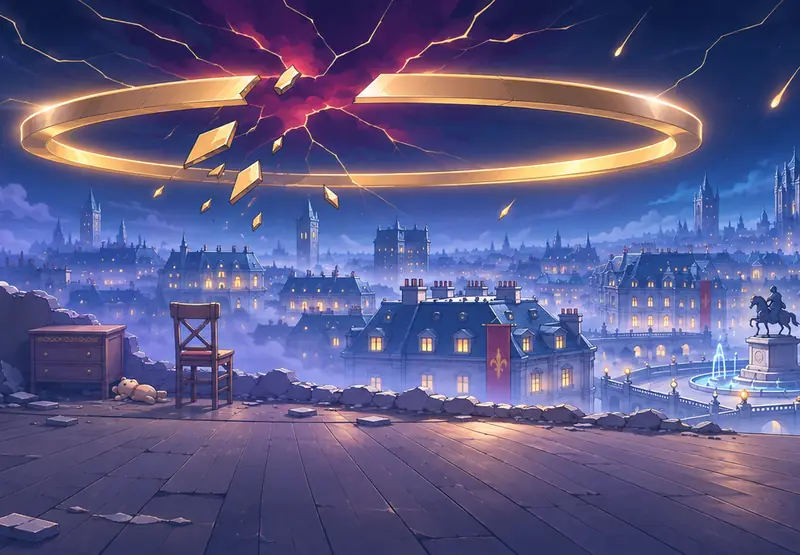
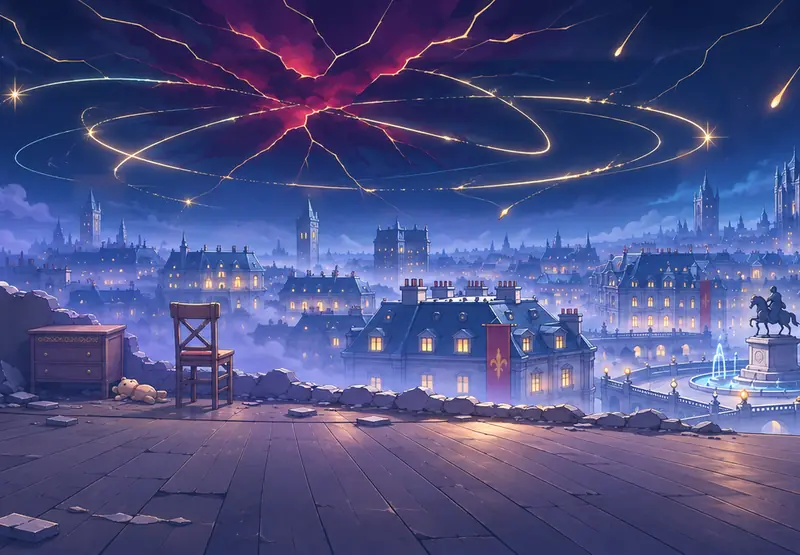
fix(art): 강제 탐색 하늘 — 고리를 빛의 궤적 형태로(초기 그림 결), 깨지는 중

Changed region(s): [[0.0, 0.0919, 0.9062, 0.4288]]

diff --git a/forced.css b/forced.css
@@ -19,8 +19,8 @@ body.is-forced{--r-panel:0;--r-box:0;--r-ctl:0;--brass:var(--fx-red);--line:#4a2
  background:radial-gradient(circle at 12% 22%,#fff 0 1px,transparent 1.6px),radial-gradient(circle at 31% 9%,#cfe6ff 0 1px,transparent 1.7px),radial-gradient(circle at 54% 27%,#fff 0 .9px,transparent 1.5px),radial-gradient(circle at 73% 12%,#ffe9b0 0 1.1px,transparent 1.8px),radial-gradient(circle at 90% 31%,#fff 0 1px,transparent 1.6px),
   linear-gradient(180deg,#030a2c,#0b2a6e 38%,#3a3f8f 62%,#5a4a8e 78%,#141433 79%,#0a0c22)}
 [data-forced-art] .fx-scene .fx-bg{background:url(assets/forced/scene.webp) center/100% 100% no-repeat}
-/* 깨지는 방패 고리의 파손부와 아래쪽 테두리 빛. 색·주기는 유지하고 원본 고리에 위치·크기만 맞춤 */
-[data-forced-art] .fx-scene .fx-glow{background:radial-gradient(ellipse 12% 15% at 32% 20%,rgba(255,214,140,.34),transparent 70%),radial-gradient(ellipse 20% 3% at 46% 34%,rgba(111,240,220,.4),transparent 75%);animation:fx-shimmer 10s steps(12) infinite}
+/* 깨지는 빛 궤적의 파손부·아래쪽 선. 원본 (35,19)·(46,32)%에 배경 inset -3%를 반영함 */
+[data-forced-art] .fx-scene .fx-glow{background:radial-gradient(ellipse 12% 15% at 34.1% 17.1%,rgba(255,214,140,.34),transparent 70%),radial-gradient(ellipse 20% 2.5% at 45.8% 30.9%,rgba(111,240,220,.4),transparent 75%);animation:fx-shimmer 10s steps(12) infinite}
 /* 뒷모습 그웬(gwen_back.webp — 그림을 바꿔 끼울 때는 이 파일만): 가까운 앞쪽 인물. 그림이 머리~허벅지까지라 발치는 띠 아래로 잘린 것처럼 보임.
    크기 = 띠 높이 × --fx-gs, 가로 자리 = --fx-gx(인물 가운데). 아래 끝은 띠 아래 끝보다 6px 밑(장면은 띠보다 커서 42% 지점을 기준으로 환산). 바람에 아주 살짝 흔들림 */
 [data-forced-art] .fx-scene .fx-gwen{inset:auto auto var(--fx-gbottom,calc(42% - var(--fx-h)*.42 - 6px)) var(--fx-gx);height:calc(var(--fx-h)*var(--fx-gs));aspect-ratio:271/520;translate:-50% 0;background:url(assets/forced/gwen_back.webp) center/contain no-repeat;transform-origin:50% 100%;
@@ -48,7 +48,7 @@ body.is-forced{--r-panel:0;--r-box:0;--r-ctl:0;--brass:var(--fx-red);--line:#4a2
  /* 하늘 기준점 12%를 유지하고 띠 높이를 늘려 안쪽 의자 다리까지 보존함. 그웬은 띠 아래 6px 위치를 유지함 */
  .fx-scene{top:12%;translate:calc(var(--fx-x)*-1) -12%}
  [data-forced-art] .fx-scene .fx-bg{background-image:url(assets/forced/scene_narrow.webp)}
- [data-forced-art] .fx-scene .fx-glow{background:radial-gradient(ellipse 25% 15% at 32.3% 20%,rgba(255,214,140,.34),transparent 70%),radial-gradient(ellipse 41.7% 3% at 61% 34%,rgba(111,240,220,.4),transparent 75%)}}
+ [data-forced-art] .fx-scene .fx-glow{background:radial-gradient(ellipse 25% 15% at 36.8% 17.1%,rgba(255,214,140,.34),transparent 70%),radial-gradient(ellipse 41.7% 2.5% at 61.1% 30.9%,rgba(111,240,220,.4),transparent 75%)}}
 
 /* 2. 진행 칸 → 관측 단말: 각진 틀·모서리 브래킷·위 상태줄·기록 줄. DOM 순서·단추 자리는 그대로 */
 .is-forced .progress[data-alert=scan]{position:relative;isolation:isolate;overflow:hidden;padding-top:34px;border:1px solid rgba(255,68,102,.55);border-radius:0;box-shadow:none;

diff --git a/docs/forced_art.md b/docs/forced_art.md
@@ -42,16 +42,15 @@ python -X utf8 tools/build_forced_art.py --gen-dir <원본 그림 폴더>
 - PM 검수 수정(2026-11-23): 내장 image_gen 국소 편집으로 왼쪽 귀걸이를 지웠고, 옛 신분증을 직접 참조해 과거 복장·낡은 흑백 사진 질감을 복원했음. 이전 원본은 `*_v1.png`로 보관하고 `compare.png`·`layout_review.png`를 다시 만들었음.
 - 하늘 재검수(2026-11-23): 이전 배경 원본은 `lavistar_ruin_bg_v1.png`로 보관했음. 고리 범위는 원본 기준 대략 가로 18~62%·세로 5~32%, 중심 40%·19%이며, 큰 파손부는 가로 28~41%·세로 0~19%임. `forced.css`의 빛 두 겹은 위치·크기만 고리 파손부와 아래쪽 테두리로 옮겼음(색·불투명도·움직임 주기 유지). `compare.png`·`layout_review.png`는 왼쪽 `5e05a3f` / 오른쪽 새 그림으로 갱신했음. 정지 배치 검수는 1200·600·360px이며, 기존 600×190 배치의 세로 크롭에서는 고리 대부분이 잘림. 배경 비율·장면 위치를 유지하라는 범위에 따라 크롭은 바꾸지 않았음. 검수 시트는 움직임·빛·안개를 제외한 배치 확인용임.
 
-## 현재 강제 탐색 배경 — 등신대 그웬 결·원근
+## 현재 강제 탐색 배경 — 깨지는 빛의 궤적
 
-- 내장 image_gen **1회·재시도 0회**로 교체했음. 최우선 화풍 기준은 `gwen_back_illust_1.png`의 등신대 뒷모습임. `5e05a3f` 배경은 구도·대기감, `12d9262` 배경은 구도·고리 위치, 재조사 사무실은 고리 모양만 참조했음. 섬세한 선·3~4단 명암·그라데이션 하늘·발광을 사용해 이전 사실풍과 납작한 SD 배경의 중간으로 맞췄음.
-- 원본 `lavistar_ruin_bg_1.png`는 **2172×724**, 생성 결과를 크기 변경 없이 보관했음. 직전 원본은 `lavistar_ruin_bg_v3.png`로 보존했음. 배포 `scene.webp`는 1800×600·98,902바이트, `scene_narrow.webp`는 800×555·49,982바이트, 기존 인물·신분증 포함 합계 185,552바이트임. 생성 출력과 보관 원본의 SHA-256을 대조했음.
-- 의자·작은 책상·곰인형을 중경으로 보내고 앞쪽에는 넓은 바닥과 벽 가장자리·잔해만 남겼음. 의자는 원본 가로 약 **27.3~31.1%**, 세로 54.7~74.3%(높이 **19.6%**)임. 가로 17~65% 크롭 안에 다리까지 들어감. 오른쪽 1/3은 앞에 설 그웬 자리로 비웠음. 좌표는 원본 픽셀 육안 추정임.
-- 금빛 고리는 원본 가로 약 **18.2~59.2%·세로 13.3~33.7%**로 요청 범위 근처에 유지했음. 금속 테두리의 두께·그늘·빛 번짐, 파손부·금빛 파편·붉은 보라 공허·갈라진 하늘·쏟아지는 별을 넣었음. 사무실의 수평 타원 고리 모티프를 유지했음.
-- 좁은 자산의 **가로 17~65% 크롭·세로 기준점 12%**는 유지했음. 기존 600×190 띠는 원본 세로 약 9~52%만 보여 중경 의자가 사라지므로, 폭 760px 이하의 띠 높이를 `max(190px,55vw)`로 늘렸음. 600px 뷰포트는 330px, 360px는 198px 높이이며 세로 약 5.2~79.9%가 보여 의자 전체·고리를 함께 보존함(띠 폭=뷰포트 폭인 검수 조건). 그웬은 `--fx-gs:.92`, 띠 아래 6px, 가로 66%/82%를 사용함. 보이는 머리~허벅지는 띠 높이의 약 89~90%임.
-- `layout_review.png`를 12d9262/새 그림 비교로 다시 만들었음. 넓은 1200×300·좁은 600×330·휴대폰 360×198에 뒷모습을 합성해 직접 검수했음. 의자 높이는 띠 대비 각각 **27.7%·26.3%·26.3%**, 보이는 그웬 머리~허벅지 대비 **30.8%·29.1%·29.5%**임. CSS 좌표 정지 합성으로 움직임·빛·안개는 제외했음. 넓은 화면은 기존 세로 기준점 58%여서 고리 맨 위 일부가 잘리는 기존 절충을 유지함.
-- 생성 프롬프트·참조·크기는 [forced_art_prompts.json](../tools/forced_art_prompts.json)이 정본임. 원본·검수 시트·측정 JSON은 저장소 밖 원본 보관 폴더에 둠.
-- 검증: 아트 빌드·페이지 빌드, `node tests/forced_test.js`(변이 7건 포함), `python -X utf8 -I tools/run_tests.py forced gwen` **16통과·0실패**. 전체 회귀는 **273통과·0실패**, 비공개 표 등 환경 자료가 필요한 검사 6건은 건너뛰었음. 독립 리뷰에서 수정 필수 지적 없었음. 위 의자 비율은 명시한 세 검수 크기 기준이며 다른 폭에서는 띠 크기에 따라 달라짐.
+- 내장 image_gen **하늘 국소 편집 1회·재시도 0회**로 금속 고리 하나를 금백색 발광 궤적 약 4가닥으로 바꿨음. `c37b5f1` 원본을 편집 대상으로, 초기 임시 `before/scene.webp`는 가는 에너지 선·혜성 꼬리·별빛 끝 형태만 참고했음. 행성은 넣지 않았음. 서로 다른 기울기·크기의 궤적이 끊겨 빛 조각·불티로 흩어지고, 기존 붉은 보라 공허·유리 같은 균열·쏟아지는 별을 유지했음.
+- 원본 **2172×724**를 유지했음. 이전 원본은 `lavistar_ruin_bg_v4.png`, 생성 후보는 `orbit_candidate.png`로 보관했음. 생성 후보의 하늘 다각형만 12px 안쪽 경계 혼합으로 원본에 합성했음. 다각형·해시는 [forced_art_prompts.json](../tools/forced_art_prompts.json)에 기록했음. 하늘 편집 영역 밖 도시·폐허·의자·책상·곰인형·바닥은 RGB 픽셀 동일함. 생성 출력 전체를 교체하지 않았음.
+- 궤적은 원본 가로 약 **17.8~60.2%·세로 14~37%**임(빛 번짐·공허 균열 제외, 육안 추정). `.fx-glow`는 원본 파손부 (35%,19%)·아래 궤적 (46%,32%)에 맞췄음. 배경 -3% inset을 반영해 넓은 화면 중심은 (34.1%,17.1%)·(45.8%,30.9%), 좁은 화면은 (36.8%,17.1%)·(61.1%,30.9%)임. 청록 층 높이를 2.5%로 줄이고 색·불투명도·주기는 유지했음.
+- 배포 `scene.webp`는 1800×600·97,904바이트, `scene_narrow.webp`는 800×555·49,180바이트임. 기존 인물·신분증 포함 합계 183,752바이트임. 그웬·신분증·재조사 사무실 자산은 변경하지 않았음.
+- 의자 원근은 `c37b5f1` 그대로임. 의자 범위 가로 약 27.3~31.1%·세로 54.7~74.3%, 원본 높이 19.6%임. 좁은 자산 가로 17~65% 크롭·세로 기준점 12%, 띠 높이 `max(190px,55vw)`·그웬 크기 `.92`를 유지했음.
+- `layout_review.png`는 **왼쪽 c37b5f1 / 오른쪽 새 그림**임. 1200×300·600×330·360×198에 같은 그웬을 합성해 비교했음. CSS 좌표 정지 합성이며 움직임·빛·안개는 제외했음. 좁은 화면에서 궤적과 의자를 함께 확인했음. 넓은 화면의 기존 세로 기준점 58%에서는 맨 위 궤적 일부가 잘리는 절충이 남음.
+- 검증 결과는 이번 `docs/HISTORY.md` 기록을 참조함. 원본·후보·합성 스크립트·검수 시트·측정 JSON은 저장소 밖 원본 보관 폴더에 둠. 사무실 창밖 고리는 CSS 빛으로 덮는 계획에 따라 이번에는 바꾸지 않았음.
 
 ## 재조사 배경(준비 중)
 

diff --git a/docs/HISTORY.md b/docs/HISTORY.md
@@ -1,3 +1,10 @@
+## 2026-11-23 — 강제 탐색 하늘: 깨지는 빛의 궤적
+
+- `c37b5f1` 배경의 두꺼운 금속 고리만 내장 image_gen 1회·재시도 0회로 가는 금백색 궤적 여러 가닥으로 바꿨음. 초기 임시 `before/scene.webp`의 혜성 꼬리 같은 빛·끝의 별빛을 참조했고, 행성 없이 끊기는 빛 조각·붉은 보라 공허·유리 같은 균열을 유지했음.
+- 직전 원본은 `lavistar_ruin_bg_v4.png`로 보존했음. 생성 후보의 하늘만 원본에 국소 합성해 도시·의자·폐허·바닥 픽셀을 보존했음. 원본 크기 2172×724·좁은 크롭·그웬 크기를 유지했으며, `.fx-glow`를 파손부와 아래 궤적에 맞췄음. 좌표·합성 범위·전체 프롬프트·해시는 `tools/forced_art_prompts.json`, 현재 설명은 `docs/forced_art.md`에 기록했음.
+- 배경 WebP 두 장을 갱신했음. `layout_review.png`는 왼쪽 `c37b5f1` / 오른쪽 새 그림으로 1200·600·360px 정지 배치를 비교했음. 그웬·신분증·재조사 사무실은 변경하지 않았음. 사무실 창밖 고리는 CSS 빛으로 덮는 계획을 유지했음.
+- 아트·페이지 빌드, `node tests/forced_test.js`(변이 7건 포함), `python -X utf8 -I tools/run_tests.py forced gwen` 16통과·0실패임. 수정 전 전체 기준선은 273통과·0실패, 환경 자료 검사 6건 건너뜀이었음. 원본 보존·프롬프트의 로컬 절대 경로 부재를 확인했고 고정 변경 범위 독립 리뷰에서 필수 수정 지적 없었음. 브랜치 추적 원격 부재로 pull하지 못했고, static-data는 지정 폴더 밖 쓰기 금지 범위라 갱신하지 않았음.
+
 ## 2026-11-23 — 재조사 그웬 코트 자락·허리띠 제거, 검은 코르셋
 
 - `recon_look`·`recon_pin`·`recon_nod`를 내장 image_gen으로 각 1회 국소 편집했음(총 3회·재시도 0회). 흰 치마 옆·뒤의 파란 코트 자락과 금색/검은 줄, 청록 허리띠·큰 리본·가슴 타이·흰 자보를 제거했음. 장식 없는 흰 스탠드 칼라·손목까지 오는 긴소매·맨손과 은색 사각 버클 가로 벨트 두 줄의 무광 검은 언더버스트 코르셋으로 고쳤음.

diff --git a/HANDOFF.md b/HANDOFF.md
@@ -8,7 +8,7 @@
 
 - **재조사 배경 준비**: PM 검수에 따라 그웬 SD 화풍의 셀 선화로 바꾸고 장식·광택을 줄였음. 단일 스탠드 광원·회수 증거 4자료·사진을 떼어 낸 흔적 4곳을 넣었음. 원본은 2172×724 그대로 보관했고 비교·그웬 합성을 검수했음. 현재 좌표·크롭 한계는 `docs/forced_art.md`, 호출 기록은 `tools/recon_art_prompts.json`이 정본임. 원본·미리보기는 `recon` 보관 폴더에 있으며 배포용 자산·화면 연결은 미구현임.
 
-- **강제 탐색 배경**: 등신대 뒷모습 그웬을 화풍 기준으로 삼아 섬세한 셀 선화·명암·발광으로 맞췄음. 의자·책상·곰인형은 중경으로 줄였음. 좁은 화면의 가로 크롭·하늘 기준점을 유지하면서 띠 높이를 늘려 의자 전체와 고리를 보존했음. 현재 크기·좌표·검수 한계는 `docs/forced_art.md`, 생성 기록은 `tools/forced_art_prompts.json`이 정본임.
+- **강제 탐색 배경**: 등신대 그웬 결·중경 의자 원근을 유지하고, 하늘의 두꺼운 금속 고리를 금백색 빛의 궤적 여러 가닥으로 국소 교체했음. 끊긴 빛 조각·별빛 끝·붉은 보라 공허를 넣고 하늘 편집 영역 밖은 원본 픽셀을 보존했음. 좁은 화면 크롭과 표시 높이는 유지했음. 현재 좌표·검수 한계는 `docs/forced_art.md`, 생성·합성 기록은 `tools/forced_art_prompts.json`이 정본임.
 
 - **공략 사례 기준 탐색 검사(단계 ②)**: 표준 육성·전체 보유로 화면 탐색 정책(코스모 3보스·길드 찾기, 작전·회랑은 근사 후보)과 사례 편성을 같은 400판으로 재평가했음. «탐색이 놓침» 0건, 엔진 의심 0건임. 다만 표준 육성은 사례 단계에서 2~5턴 안에 전멸해 장기 운영 전술이 돌아가는 구간의 판정은 미확인이고, 작전·회랑 사례는 진행도 1% 미만이라 비교 불가였음. 강한 가정 육성으로 재검사하는 것이 다음 후보임. 정책·기본값 불변. 사례별 표·한계는 `docs/casebook_search_check.md`, 도구는 `tools/casebook_search_check.py`.
 
